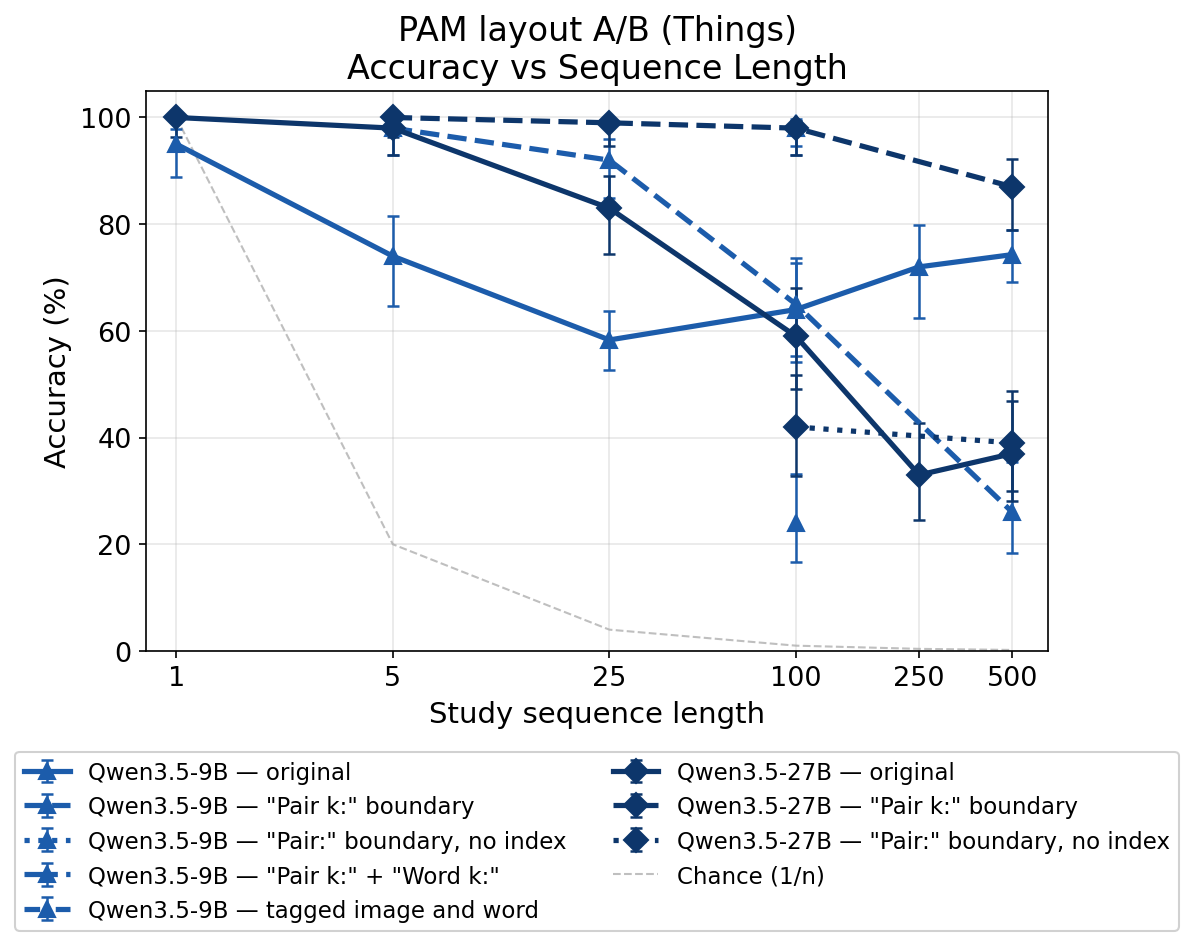
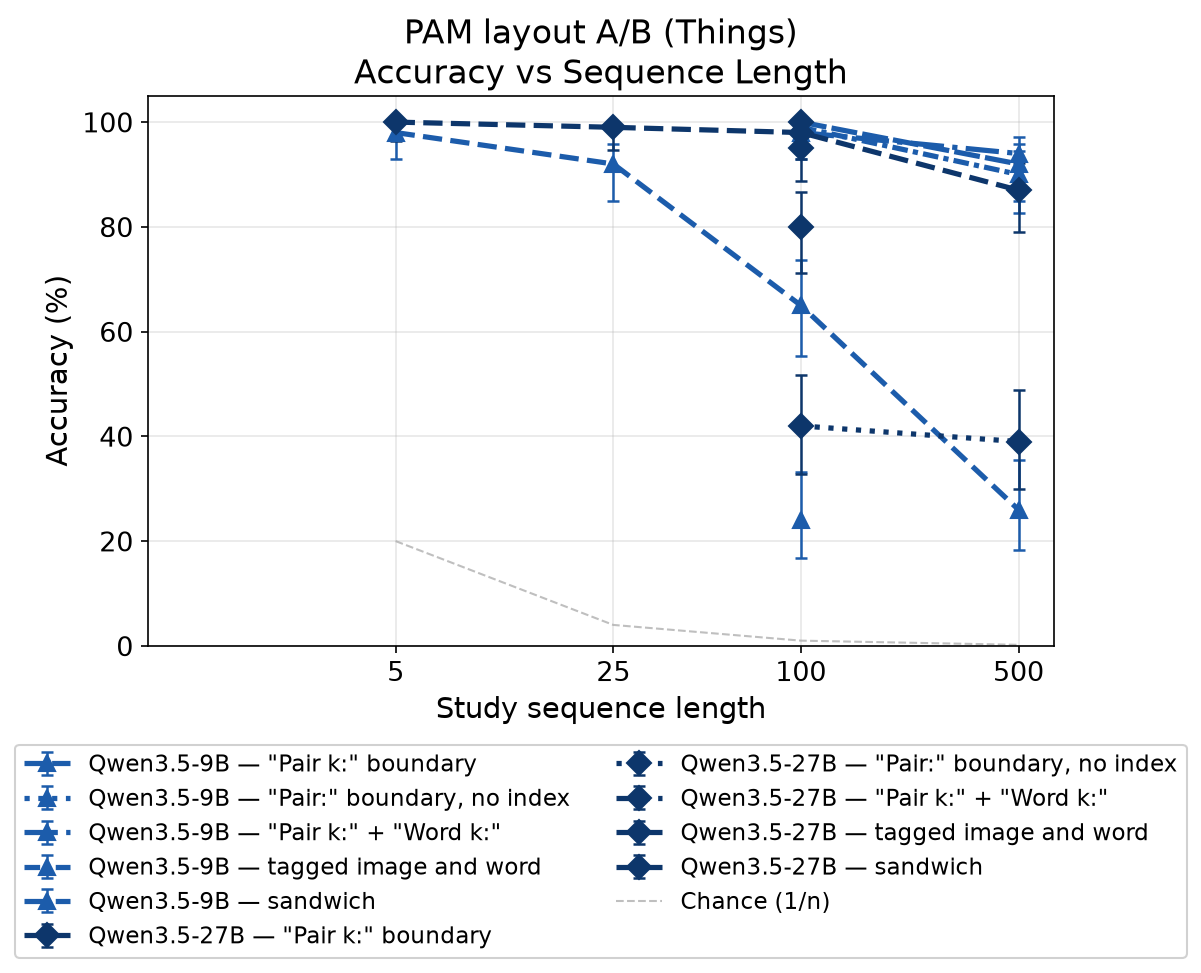
Plot: match -img256 THINGS runs to their model size; PAM plots use sandwich
THINGS-256 results are stored as qwen3.5-<size>-img256, and the plot matched model names exactly,
so every THINGS curve was silently dropped. Model names now go through base_model(), and a model
that matches no plotted series prints a warning. PAM figures filter on the final sandwich layout,
and the layout A/B figure gains a sandwich line. Plots regenerated.

diff --git a/bench/plot.py b/bench/plot.py
@@ -33,7 +33,7 @@ TASKS = [
      "2AFC — Novel"),
     ("serial_order", {"prompt": "original"}, ["Brady2008", "things"],
      "Serial AFC"),
-    ("paired_associates", {"prompt": ""}, ["Brady2008", "things"],
+    ("paired_associates", {"prompt": "sandwich"}, ["Brady2008", "things"],
      "PAM (image-word)"),
 ]
 DATASET_LABELS = {"Brady2008": "Brady2008", "things": "Things", "": ""}
@@ -52,8 +52,16 @@ LAYOUTS = [
     ("pair_plain", '"Pair:" boundary, no index', ":"),
     ("pair_both", '"Pair k:" + "Word k:"', "-."),
     ("tagged", 'tagged image and word', (0, (3, 1, 1, 1))),
+    ("sandwich", 'sandwich', (0, (5, 1))),
 ]
 LAYOUT_MODELS = ["qwen3.5-9b", "qwen3.5-27b"]
+
+
+
+def base_model(name):
+    """THINGS runs at 256 px are stored as e.g. "qwen3.5-2b-img256"; they are still that model size."""
+    return name.removesuffix("-img256")
+
 
 # Same reference point the original repo plots.
 HUMAN = {("afc_recognition", "Brady2008"): (2500, 93.0, "Brady et al. 2008")}
@@ -144,7 +152,7 @@ def make_plot(rows, task, dataset, title, out_dir):
     fig, ax = plt.subplots(figsize=(8, 6.5))
 
     for model, label, color, marker in MODELS:
-        cells = [r for r in rows if r["model"] == model]
+        cells = [r for r in rows if base_model(r["model"]) == model]
         if cells:
             plot_series(ax, cells, color, marker, "-", label)
 
@@ -165,7 +173,7 @@ def make_plot(rows, task, dataset, title, out_dir):
 def make_hit_plot(rows, dataset, metric, title, out_dir):
     fig, ax = plt.subplots(figsize=(8, 6.5))
     for model, label, color, marker in MODELS:
-        cells = [r for r in rows if r["model"] == model]
+        cells = [r for r in rows if base_model(r["model"]) == model]
         if cells:
             plot_series(ax, cells, color, marker, "-", label, metric=metric)
     # An unbiased guesser averages 50% on each split; an "always 1" model sits at 100% hit1 / 0% hit2.
@@ -183,7 +191,7 @@ def make_layout_plot(rows, dataset, out_dir):
     for model in LAYOUT_MODELS:
         label, color, marker = style[model]
         for prompt, layout_label, linestyle in LAYOUTS:
-            cells = [r for r in rows if r["model"] == model and r["prompt"] == prompt]
+            cells = [r for r in rows if base_model(r["model"]) == model and r["prompt"] == prompt]
             if cells:
                 plot_series(ax, cells, color, marker, linestyle, f"{label} — {layout_label}")
     plot_chance(ax, rows)
@@ -208,6 +216,11 @@ def main():
                    and all(r[k] == v for k, v in filt.items())]
             if not sel:
                 continue
+            # A model name outside MODELS is silently left off the figure; this is how every THINGS
+            # series went missing when those runs were renamed "-img256".
+            known = {m for m, *_ in MODELS}
+            for name in sorted({r["model"] for r in sel if base_model(r["model"]) not in known}):
+                print(f"warning: {task} {dataset}: model {name!r} matches no plotted series")
             # A cell short of the full two seeds gets a wider CI, but say so rather than rely on that.
             for r in sel:
                 if r["seeds"] < 2:
@@ -220,7 +233,7 @@ def main():
 
     for dataset in ("Brady2008", "things"):
         sel = [r for r in rows if r["task"] == "paired_associates" and r["dataset"] == dataset
-               and r["model"] in LAYOUT_MODELS]
+               and base_model(r["model"]) in LAYOUT_MODELS]
         if any(r["prompt"] == "pair_numbered" for r in sel):
             make_layout_plot(sel, dataset, args.out)
 
